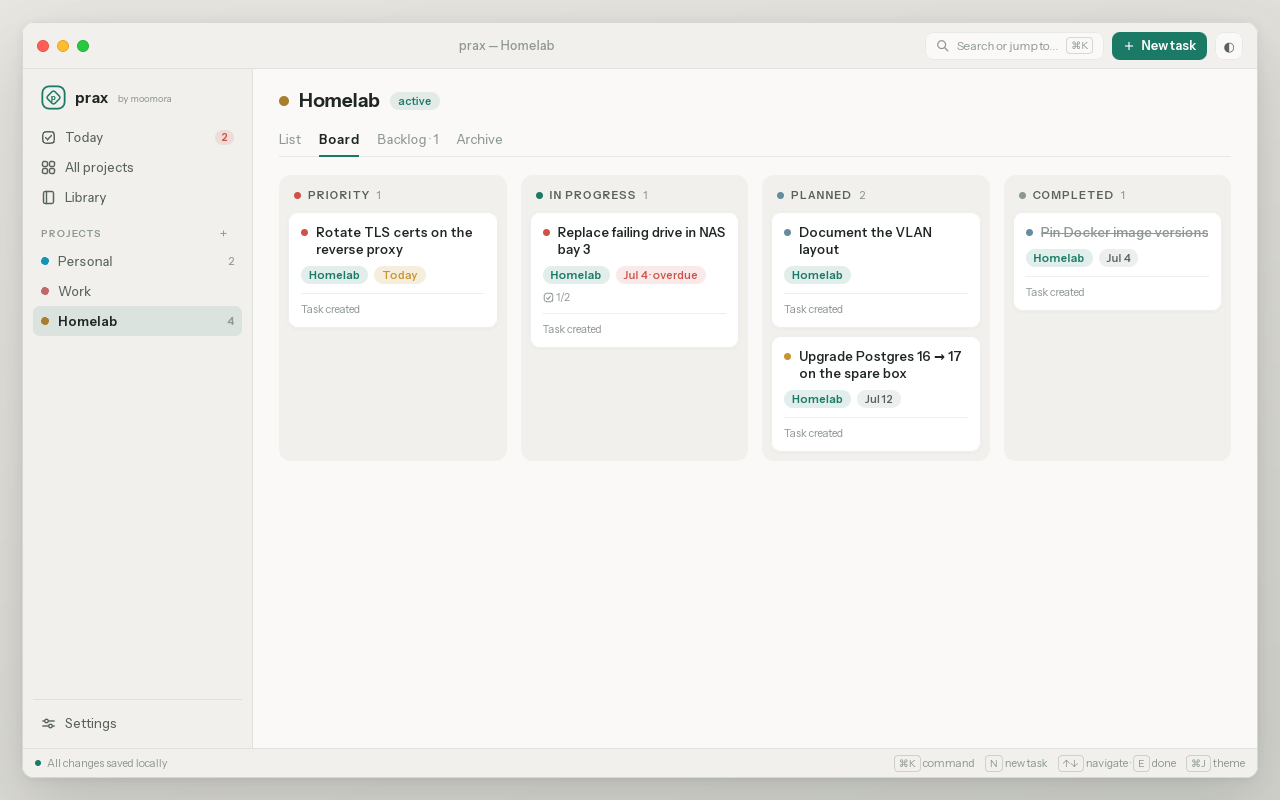
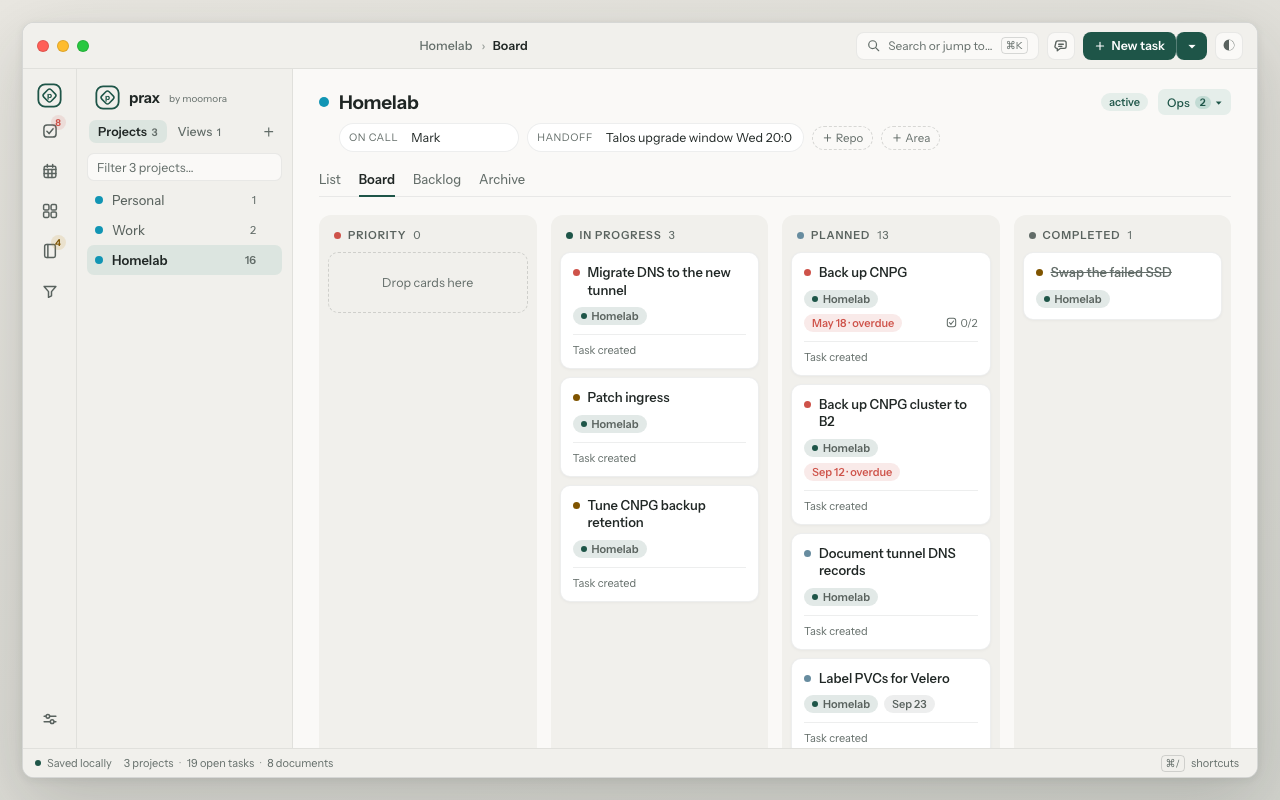
docs(readme): regenerate the screenshots for the year-one shell, add Today
The four README screenshots showed the old header, statusbar and Library.
They are recaptured at 1280×800 from a seeded demo server, and a Today
screenshot joins them since it is now the home view. The capture is a
script (scripts/capture-readme-screenshots.mjs, on the existing Playwright
dev dependency) so the images can be regenerated instead of drifting.

diff --git a/README.md b/README.md
@@ -45,13 +45,17 @@ it. See [docs/desktop/BUILD.md](docs/desktop/BUILD.md#menu-bar-quick-capture-and
 
 ## Screenshots
 
-![Task list with due-date groups, priority dots, and signals](docs/images/prax-tasks.png)
+![Today: the overdue triage band, today's plan, the week's load, and what agents wrote overnight](docs/images/prax-today.png)
+
+![Project list with the Ops row, folding due-date groups, and a project-scoped reschedule](docs/images/prax-tasks.png)
 
 ![Kanban board with drag-and-drop columns and card signals](docs/images/prax-board.png)
 
-![Markdown library with tags and trust chips](docs/images/prax-library.png)
+![Library with facets in the panel, the review queue, tags, and trust chips](docs/images/prax-library.png)
 
 ![Settings in the dark Deep Fern theme](docs/images/prax-settings.png)
+
+Regenerate these from a seeded demo server with `node scripts/capture-readme-screenshots.mjs`.
 
 ## Stack
 
